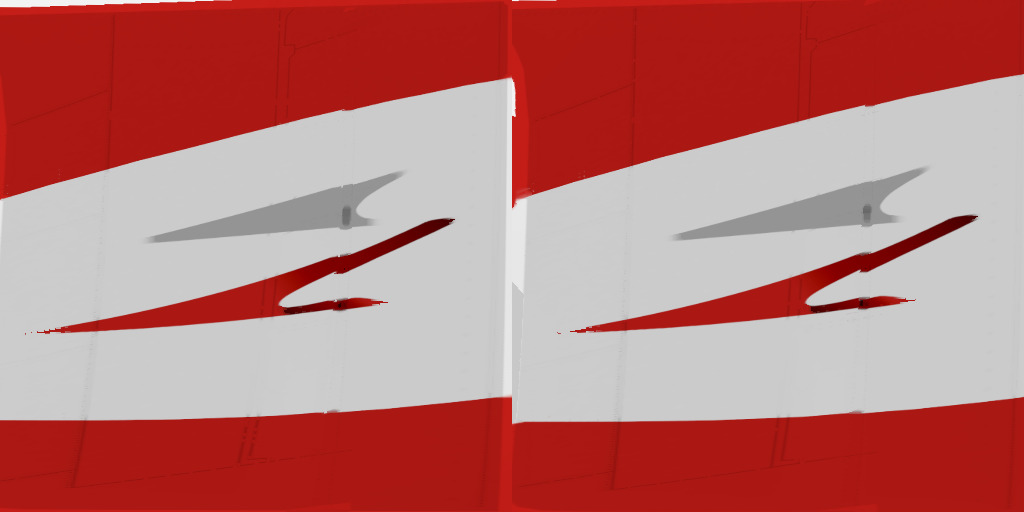
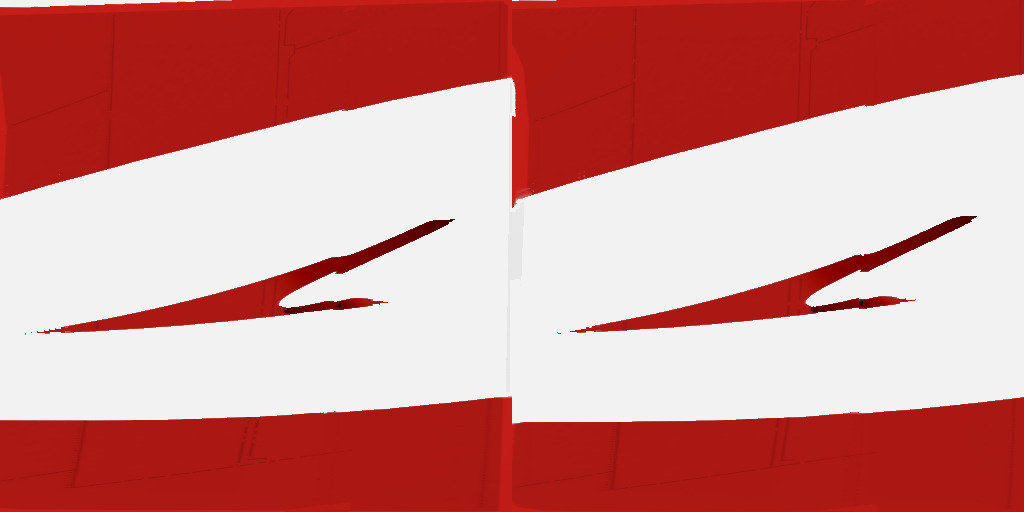
Flight hangar: clean Lufthansa rear and fin, single red Austrian arrow
- Lufthansa: the rear fuselage is one navy wrap with a smooth slanted front edge, replacing the stepped blocks, white notches and grey stabiliser-fairing diamonds the A320 sheet left there; the pale strip along the fin's leading edge is filled navy
- Austrian: the grey arrow is removed from the fin and from the painted arrow logo, leaving the single red arrow
- tools/livery: lh_lufthansa_rear.py, fin_edges.py, os_austrian_fin.py

Claude-Session: https://claude.ai/code/session_01DPTgPf9WxpchQEe6ifFgUC

diff --git a/flights.html b/flights.html
@@ -10,8 +10,8 @@
 <link rel="preconnect" href="https://fonts.googleapis.com">
 <link href="https://fonts.googleapis.com/css2?family=Chakra+Petch:wght@400;500;600;700&family=JetBrains+Mono:wght@400;600&family=Pinyon+Script&family=Source+Sans+3:wght@400;600&display=swap" rel="stylesheet">
 <link rel="stylesheet" href="https://cdnjs.cloudflare.com/ajax/libs/leaflet/1.9.4/leaflet.min.css" crossorigin="">
-<script src="aviation.js?v=202610051600"></script>
-<script src="fleet3d.js?v=202610051600"></script>
+<script src="aviation.js?v=202610051800"></script>
+<script src="fleet3d.js?v=202610051800"></script>
 <style>
   /* Flight log: a private page (same travel password and encrypted file as travel.html) in a "cockpit HUD" look, dark or light (site-wide setting). */
   :root {
@@ -711,7 +711,7 @@
 
 <script src="https://cdnjs.cloudflare.com/ajax/libs/leaflet/1.9.4/leaflet.min.js" crossorigin=""></script>
 <script src="site-lang.js"></script>
-<script src="map-base.js?v=202610051600"></script>
+<script src="map-base.js?v=202610051800"></script>
 <script>
 // ─────────────────────────────────────────────────────────────────────────────
 // Data: the flights live inside travel/travel.enc (AES-256-GCM, key derived from the

diff --git a/fleet3d.js b/fleet3d.js
@@ -431,9 +431,8 @@
       x.lineWidth = 0.07; x.beginPath(); x.arc(-0.12, 0.22, 0.13, -Math.PI * 0.2, Math.PI * 1.4); x.stroke();
       x.beginPath(); x.moveTo(0.0, 0.18); x.quadraticCurveTo(0.2, 0.44, 0.44, 0.38); x.stroke(); x.restore();
     },
-    osarrow(x, cx, cy, s, col = '#d8001a') {   // Austrian: swept arrow with a grey shadow
+    osarrow(x, cx, cy, s, col = '#d8001a') {   // Austrian: a single red swept arrow
       x.save(); x.translate(cx, cy); x.scale(s, s);
-      x.fillStyle = '#9aa1a8'; x.beginPath(); x.moveTo(-0.4, 0.1); x.lineTo(0.42, 0.06); x.lineTo(0.16, 0.42); x.lineTo(0.2, 0.16); x.closePath(); x.fill();
       x.fillStyle = col; x.beginPath(); x.moveTo(-0.46, -0.28); x.lineTo(0.46, -0.12); x.lineTo(0.12, 0.3); x.lineTo(0.2, -0.06); x.closePath(); x.fill(); x.restore();
     },
   };

diff --git a/tools/livery/lh_lufthansa_rear.py b/tools/livery/lh_lufthansa_rear.py
@@ -1,0 +1,22 @@
+# Lufthansa (2018 livery): replace the rear of the baked A320-sheet fuselage with one clean navy wrap.
+# Behind the rear door the whole rear fuselage is navy, round the belly too; the front edge slants forward towards the belly.
+# The sheet's tail-cone and stabiliser-fairing pieces mapped onto our loft as stepped blocks, white notches and grey diamonds.
+import os, numpy as np
+from PIL import Image
+OUT = os.path.join(os.path.dirname(__file__), '..', '..', 'liveries') + '/'
+a = np.asarray(Image.open(OUT + 'LH.jpg').convert('RGB')).astype(np.float32); h, w, _ = a.shape
+NAVY = np.array([10, 29, 79], np.float32); WHITE = np.median(a[int(0.08 * h):int(0.12 * h), int(0.4 * w):int(0.45 * w)].reshape(-1, 3), axis=0)
+SS = 4   # supersampling for a smooth edge
+U = (np.arange(w * SS) + 0.5) / (w * SS); V = (np.arange(h) + 0.5) / h; Ug, Vg = np.meshgrid(U, V); Vm = np.where(Vg <= 0.5, Vg, 1 - Vg)
+edge = 0.835 - 0.085 * (Vm / 0.5)            # u of the front edge at each height: 0.835 at the crown, 0.75 at the belly
+cov = (Ug >= edge).reshape(h, w, SS).mean(axis=2)
+rear = (np.arange(w) / w) >= 0.70                 # only the rear section is rebuilt
+out = a.copy()
+# forward of the edge keep windows and markings; only the sheet's leftover navy and grey blocks turn white
+lum = a.mean(axis=2); navyish = (a[..., 2] - a[..., 0] > 35) & (lum < 140); greyblk = (np.abs(a - a.mean(axis=2, keepdims=True)).max(axis=2) < 12) & (lum > 170) & (lum < 240)
+blocks = (navyish | greyblk) & rear[None, :]
+base = a.copy(); base[blocks] = WHITE
+mix = base * (1 - cov[..., None]) + NAVY * cov[..., None]
+out[:, rear] = mix[:, rear]
+Image.fromarray(out.clip(0, 255).astype(np.uint8)).save(OUT + 'LH.jpg', quality=92, subsampling=0)
+print('LH rear rebuilt, white', WHITE)

diff --git a/tools/livery/fin_edges.py b/tools/livery/fin_edges.py
@@ -1,0 +1,24 @@
+# Fill pale strips along the leading / trailing edge of fin textures with the fin's own colour.
+# Baked fins sometimes catch a few columns of sheet background (white or grey) beyond the painted fin.
+# Only fins whose dominant colour is not pale are touched, so white fins and logos near an edge are left alone.
+# Check the result: run it on the fins that need it (used for LH), not blindly on all.
+import os, sys, numpy as np
+from PIL import Image
+OUT = os.path.join(os.path.dirname(__file__), '..', '..', 'liveries') + '/'
+for key in sys.argv[1:]:
+    p = OUT + key + '-fin.jpg'; a = np.asarray(Image.open(p).convert('RGB')).astype(np.float32); H, W, _ = a.shape; changed = []
+    for x0 in (0, W // 2):
+        half = a[:, x0:x0 + W // 2]
+        q = (half // 16).reshape(-1, 3).astype(int); keys, cnt = np.unique(q, axis=0, return_counts=True); bg = keys[cnt.argmax()] * 16 + 8
+        if bg.mean() > 150 or bg.max() - bg.min() < 30 and bg.mean() > 110: continue   # pale or grey fin: nothing to do
+        # whole pale columns touching the edge are sheet background (a row-by-row test also catches real white logo parts, so it is not used)
+        pale = lambda col: (col.mean() > 140) and (col.max(axis=1) - col.min(axis=1)).mean() < 40
+        for rng in (range(0, 60), range(W // 2 - 1, W // 2 - 61, -1)):
+            n = 0
+            for c in rng:
+                if not pale(half[int(0.1 * H):int(0.9 * H), c]): break
+                n += 1
+            if n: half[:, list(rng)[:n + 2]] = bg; changed.append((x0, n))
+        a[:, x0:x0 + W // 2] = half
+    if changed: Image.fromarray(a.clip(0, 255).astype(np.uint8)).save(p, quality=92, subsampling=0)
+    print(key, changed or 'unchanged')

diff --git a/tools/livery/os_austrian_fin.py b/tools/livery/os_austrian_fin.py
@@ -1,0 +1,12 @@
+# Austrian: the fin is red-white-red with a single red arrow; the source sheet also has a grey arrow, which is removed here.
+import os, numpy as np
+from PIL import Image, ImageFilter
+OUT = os.path.join(os.path.dirname(__file__), '..', '..', 'liveries') + '/'
+p = OUT + 'OS-fin.jpg'; a = np.asarray(Image.open(p).convert('RGB')).astype(np.float32)
+lum = a.mean(axis=2); chroma = a.max(axis=2) - a.min(axis=2)
+grey = (chroma < 30) & (lum > 60) & (lum < 225)                      # the grey arrow (and its anti-aliased rim); red and white are untouched
+grey = np.asarray(Image.fromarray((grey * 255).astype(np.uint8)).filter(ImageFilter.MaxFilter(5))) > 0
+grey &= (chroma < 60)                                                 # grow into the soft edge, but never into red
+white = np.median(a[(lum > 235) & (chroma < 20)].reshape(-1, 3), axis=0)
+a[grey] = white
+Image.fromarray(a.clip(0, 255).astype(np.uint8)).save(p, quality=92, subsampling=0); print('grey arrow removed:', int(grey.sum()), 'px')
